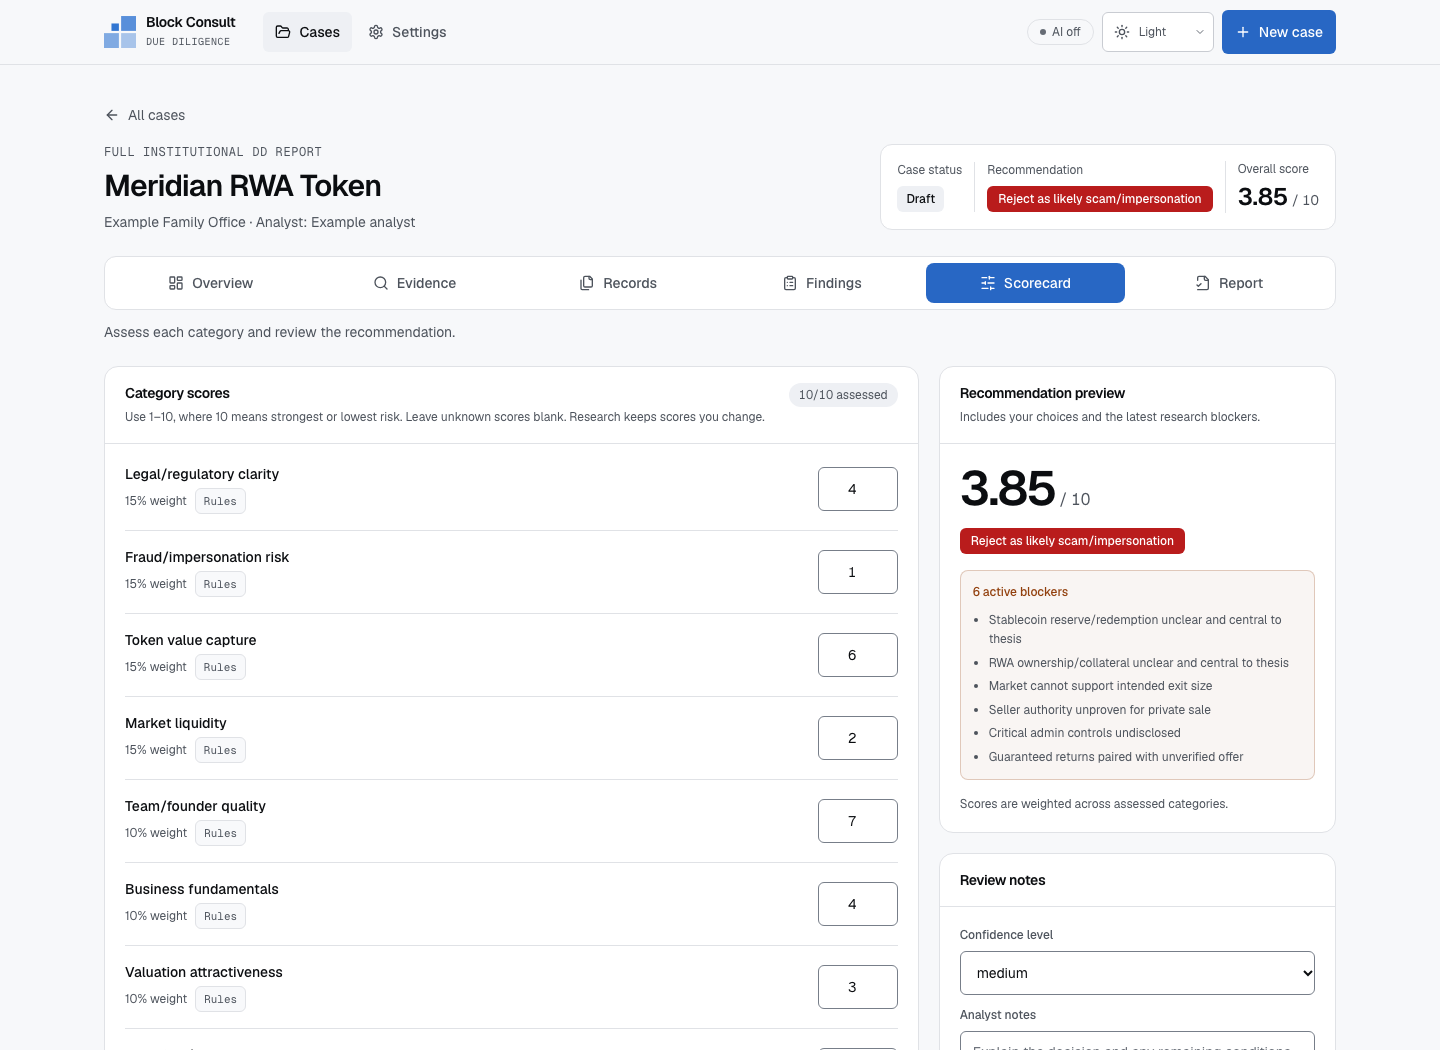
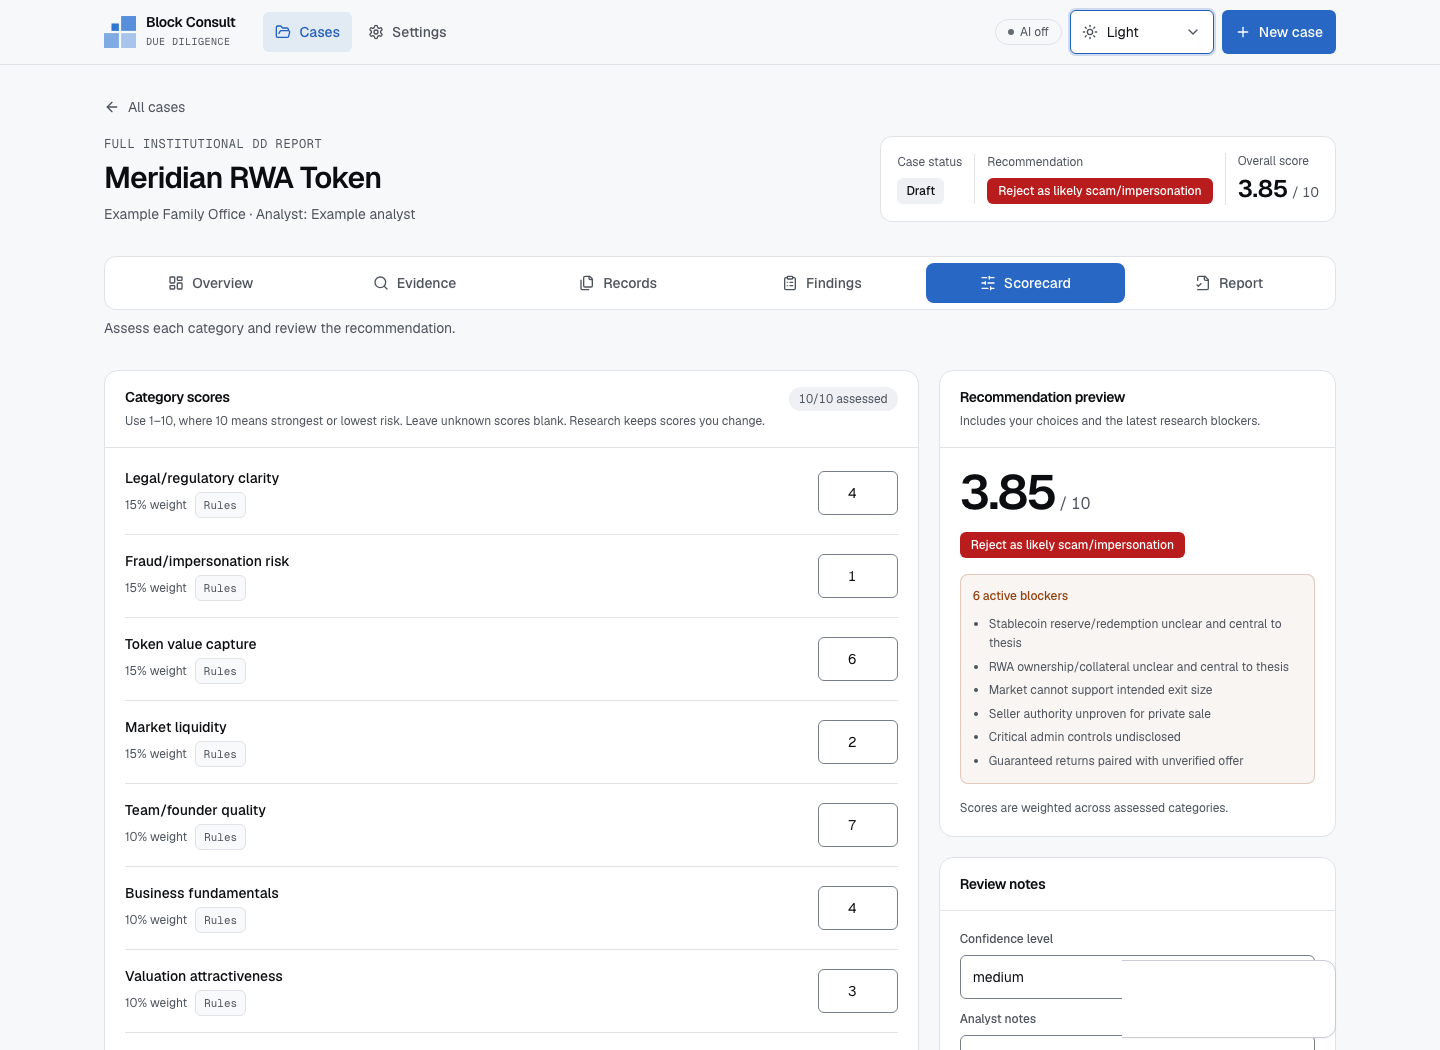
docs(release): document v0.3 workflows and refresh screenshots

diff --git a/docs/interface.md b/docs/interface.md
@@ -1,0 +1,46 @@
+# Working in the desktop app
+
+## Cases and navigation
+
+Cases and Settings stay available in the header at every window size. The dashboard keeps its search, status, sorting and red-flag filter during the browser session, so returning from a case restores the list you were using.
+
+The case overview shows the next review steps, research controls and the intake. Use **Edit intake** to update an existing case. Saving an intake edit keeps document requests, counterparties and nested details that the form does not expose. In **Records**, use the edit action beside a record to change its fields. Token allocations and unlock schedules remain intact when editing the token's other fields.
+
+Visited case tabs and Settings sections keep their drafts while you switch between them. Forms show unsaved changes and warn before leaving the page or closing the window. Drafts are held in memory; saving writes them to the local database. Key drafts are never written to browser storage.
+
+## Settings
+
+- **AI providers** shows the active provider separately from the provider being configured. **Configure provider** switches the editor. Save changes, then choose **Use this provider** to change which provider handles new requests. Saving the first API key also activates its provider, as before.
+- **Appearance** applies Light, Dark or System immediately. It stays synchronized with the theme control in the header.
+- **Research** has its own Save and Discard actions. These defaults affect future AI research runs. CLI tool budgets remain instructions rather than guaranteed spending caps.
+- **Usage** shows the app's recorded calls and estimated API costs. It does not contain prompts or answers.
+
+Connection checks and test prompts use the saved configuration. The previous test result is hidden while that configuration has unsaved changes and becomes invalid when the saved configuration changes. A test prompt makes a provider request and can incur usage. Saved keys show only their presence and last four characters; replacing or removing a key uses the existing encrypted storage.
+
+**Turn off AI** leaves case creation, evidence review, rule-based checks and exports available.
+
+## Keyboard and menus
+
+Tab moves between controls. Enter or Space opens a select; arrow keys move through its options, Home and End jump to the first and last enabled option, and typing searches option labels. Enter selects, Escape closes and returns focus to the field. Clicking outside dismisses the menu. Menus open in a portal, fit within the available viewport and scroll when needed.
+
+The select chevron has a shared inset and dedicated space, including in compact controls. Labels, help text, invalid states, disabled controls and form values remain associated with the visible field.
+
+## Reports
+
+The latest saved report is one snapshot with an incrementing version. Generating it replaces the previous snapshot. Live HTML and PDF exports use the current case; they can differ from the saved snapshot. Download copies you need to retain.
+
+AI narrative freshness keeps its existing rules. Intake and structured-record edits do not independently mark an existing narrative stale. Review the prose and regenerate it after those changes when necessary.
+
+## Shared interface components
+
+| Component | Responsibility |
+| --- | --- |
+| `components/ui/field.tsx` | Associated labels, hints and errors for inputs, text areas and selects |
+| `components/ui/select.tsx` | Radix menu and native form bridge for values, validation, resets and FormData |
+| `components/ui/draft-form.tsx` | Dirty-state tracking for forms that use FormData |
+| `components/ui/use-unsaved-changes.ts` | Shared protection for unsaved edits and navigation |
+| `components/ui/card.tsx`, `button.tsx` | Consistent containers, headings, actions and focus states |
+| `components/shell/theme-select.tsx` | Light, Dark and System selection in the header and Settings |
+| `components/case/intake-fields.tsx` | Intake fields shared by creation and editing |
+
+Use semantic color tokens from `globals.css` and the spacing, typography and motion tokens in `tailwind.config.ts`. Report HTML and PDF retain their separate document design system.

diff --git a/README.md b/README.md
@@ -26,15 +26,17 @@ The case dashboard brings status, red flags and the latest review activity into 
 - Review category scores and blockers. Each score shows whether it came from an analyst, rules or AI; blockers can only lower the recommendation.
 - Generate a saved report snapshot, export HTML, Markdown and an evidence manifest, or preview and export a PDF from the current case.
 
-The interface uses Block Consult's light and dark palettes, with a system theme option, keyboard navigation and layouts for narrow windows.
+The interface uses Block Consult's light and dark palettes, with a system theme option, keyboard navigation and layouts for narrow windows. Custom selects support arrow keys, typeahead and form validation. Case tabs and Settings sections retain unsaved drafts while you switch between them.
 
 ## Get started
 
 1. Open Block Consult DD and choose **Load example case** to explore the fictional Meridian RWA Token case, or create a new case.
-2. Review the intake and add the sources you have. Missing evidence remains visible as missing.
+2. Review or edit the intake and add the sources you have. Missing evidence remains visible as missing.
 3. Run the rule-based checks from the case overview. To use AI, choose and configure a provider in Settings first.
 4. Review the findings and scorecard, including every active blocker.
 5. Open the Report tab to generate a saved report or export the current case.
+
+Settings separates the active AI provider from the connection you are configuring. Appearance, provider connections, research defaults and usage have their own sections. See [working in the desktop app](docs/interface.md) for saving, draft protection and keyboard controls.
 
 ## Screenshots
 
@@ -43,6 +45,8 @@ Screenshots use the fictional Meridian RWA Token case. The overview keeps intake
 ![The Meridian example case in dark mode, with its intake summary and workflow controls](docs/screenshots/case-overview-dark.png)
 
 ![The light-mode scorecard, showing category scores, provenance and recommendation blockers](docs/screenshots/scorecard-light.png)
+
+![Settings in light mode, showing the active provider and the connection being configured](docs/screenshots/settings-light.png)
 
 ## Download and install
 
@@ -56,7 +60,7 @@ The [latest release](https://github.com/blockconsult-org/block-consult-dd/releas
 
 Choose the filename ending shown above. Apple silicon and Intel Macs have separate builds because the database engine is native to each processor. ZIP archives and Linux AppImage/DEB packages are also available on the release page.
 
-Release notes state the signing and notarization status of each download. The macOS apps in v0.2.0 are Developer ID signed but not notarized, and the Windows installer is unsigned. Operating-system security controls may block installation; follow your organization's installation policy. Check `SHA256SUMS.txt` against the downloaded file using `shasum -a 256` (macOS) or `Get-FileHash -Algorithm SHA256` (PowerShell).
+Release notes state the signing and notarization status of each download. Operating-system security controls may block installation; follow your organization's installation policy. Check `SHA256SUMS.txt` against the downloaded file using `shasum -a 256` (macOS) or `Get-FileHash -Algorithm SHA256` (PowerShell).
 
 ## Your data
 
@@ -70,7 +74,7 @@ Use **Help → Open data folder** in the desktop app. Default locations are:
 | Windows | `%APPDATA%\Block Consult DD` |
 | Linux | `~/.config/Block Consult DD` |
 
-The folder holds the SQLite database, generated reports, fetched source text and application logs. Quit the app before copying the folder for a backup. The app also backs up the database before applying a schema upgrade. Encrypted API keys may require re-entry on another computer. Version 0.2.0 keeps the existing app identity and data location.
+The folder holds the SQLite database, generated reports, fetched source text and application logs. Quit the app before copying the folder for a backup. The app also backs up the database before applying a schema upgrade. Encrypted API keys may require re-entry on another computer. Version 0.3.0 keeps the existing app identity and data location.
 
 ## Optional AI
 

diff --git a/docs/development.md b/docs/development.md
@@ -56,11 +56,14 @@ After building, run the production browser check against a disposable database:
 ```bash
 npx playwright install chromium
 npm run test:browser
-# Optional: regenerate the four README screenshots from the fictional case
+# Optional: regenerate the interface screenshots from the fictional case
 npm run test:browser -- --screenshots
+npm run test:select
 ```
 
-This checks both themes, accessibility, narrow layouts, scorecard draft persistence, rule-based research and PDF export. It does not call an AI provider.
+The production browser check covers themes, accessibility, responsive layouts, saving case data, settings persistence, retained drafts, rule-based research and report exports. Provider model lists and connection tests use fixtures; no paid provider calls run. The select check bundles the shared control into a disposable browser fixture and exercises keyboard use, empty values, FormData, required validation, reset behavior and menus inside dialogs.
+
+See [the interface guide](interface.md) for shared components and the save behavior they support. Keep the single named form bridge when changing selects; a second successful control with the same name can silently submit the wrong value.
 
 For database work, create an additive migration, regenerate the Prisma client and verify existing data survives:
 

diff --git a/CHANGELOG.md b/CHANGELOG.md
@@ -1,5 +1,16 @@
 # Changelog
 
+## 0.3.0
+
+- Replace visible native dropdowns with keyboard-accessible custom selects, including theme selection. Keep validation, default and empty values, resets and form submission intact.
+- Separate Settings into provider connections, Appearance, Research and Usage. Retain drafts, show saved and failed states, and distinguish the active provider from the connection being configured.
+- Edit existing intake and structured records while preserving nested data. Add guards against losing unsaved work when navigating or closing the app.
+- Bring research actions forward, keep scorecard saving within reach, and make evidence and findings easier to review. Display saved finding impact and mitigation.
+- Confirm replacement of the latest report snapshot. Keep current-case exports separate from that snapshot.
+- Add regression checks for control behavior, settings persistence and complete case workflows, plus updated fictional-case screenshots.
+
+The app identity, data folders, credential storage, scoring rules and report contracts remain unchanged. Existing AI narrative freshness rules do not independently detect intake or record edits; review and regenerate narrative after those changes.
+
 ## 0.2.0
 
 ### Interface
